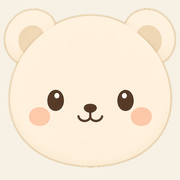
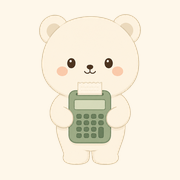
검색에 나오는 작은 아이콘을 얼굴 사진 대신 세나 전신으로 바꾼다.

diff --git a/app/layout.tsx b/app/layout.tsx
@@ -4,7 +4,7 @@ import { Providers } from "@/components/providers"
 import { AdSenseScript } from "@/components/adsense-script"
 import { SiteFooter } from "@/components/site-footer"
 import { SiteHeader } from "@/components/site-header"
-import { MASCOT, MASCOT_FAVICON, MASCOT_MARK, MASCOT_SHARE } from "@/lib/brand"
+import { MASCOT, MASCOT_FAVICON, MASCOT_SHARE } from "@/lib/brand"
 import { ADSENSE_CLIENT } from "@/lib/adsense"
 import { INDEX_ROBOTS } from "@/lib/seo"
 import { SITE_BRAND_NAME, SITE_SEARCH_NAME, SITE_URL } from "@/lib/site"
@@ -34,17 +34,14 @@ export const metadata: Metadata = {
   manifest: "/site.webmanifest",
   icons: {
     icon: [
-      { url: `${MASCOT_FAVICON.png48}?v=sena`, type: "image/png", sizes: "48x48" },
-      { url: `${MASCOT_FAVICON.png96}?v=sena`, type: "image/png", sizes: "96x96" },
-      { url: `${MASCOT_FAVICON.png192}?v=sena`, type: "image/png", sizes: "192x192" },
-      { url: `${MASCOT_FAVICON.ico}?v=sena`, sizes: "48x48" },
-      { url: MASCOT_MARK.src, type: "image/png", sizes: "512x512" },
+      { url: `${MASCOT_FAVICON.png48}?v=sena2`, type: "image/png", sizes: "48x48" },
+      { url: `${MASCOT_FAVICON.png96}?v=sena2`, type: "image/png", sizes: "96x96" },
+      { url: `${MASCOT_FAVICON.png192}?v=sena2`, type: "image/png", sizes: "192x192" },
+      { url: `${MASCOT_FAVICON.png512}?v=sena2`, type: "image/png", sizes: "512x512" },
+      { url: `${MASCOT_FAVICON.ico}?v=sena2`, sizes: "48x48" },
     ],
-    shortcut: [{ url: `${MASCOT_FAVICON.png48}?v=sena`, type: "image/png" }],
-    apple: [
-      { url: "/apple-touch-icon.png?v=sena", sizes: "180x180" },
-      { url: MASCOT_MARK.src, sizes: "180x180" },
-    ],
+    shortcut: [{ url: `${MASCOT_FAVICON.ico}?v=sena2` }],
+    apple: [{ url: "/apple-touch-icon.png?v=sena2", sizes: "180x180" }],
   },
   openGraph: {
     type: "website",

diff --git a/lib/brand.test.ts b/lib/brand.test.ts
@@ -53,18 +53,21 @@ test("세나 그림 파일이 공개 폴더에 있다", () => {
   assert.equal(existsSync(join(root, "icon-192.png")), true)
 })
 
-test("구글 검색용 파비콘이 사이트 세나 얼굴이고 48픽셀 배수다", () => {
+test("검색 작은 아이콘은 세나 전신이고 48픽셀 배수다", () => {
   const root = join(process.cwd(), "public")
   assert.equal(MASCOT_FAVICON.png48, "/kindsem-sena-face-fav-48.png")
   assert.equal(MASCOT_FAVICON.png96, "/kindsem-sena-face-fav-96.png")
   assert.equal(MASCOT_FAVICON.png192, "/kindsem-sena-face-fav-192.png")
   assert.equal(MASCOT_FAVICON.ico, "/favicon.ico")
+  assert.equal(MASCOT_FAVICON.png512, "/kindsem-sena-favicon-512.png")
   assert.equal(MASCOT_MARK.src, "/kindsem-sena-face-live.png")
   assert.deepEqual(pngSize(join(root, "kindsem-sena-share-live.png")), { width: 1200, height: 1200 })
   assert.deepEqual(pngSize(join(root, "kindsem-sena-face-live.png")), { width: 512, height: 512 })
   assert.deepEqual(pngSize(join(root, "kindsem-sena-face-fav-48.png")), { width: 48, height: 48 })
   assert.deepEqual(pngSize(join(root, "kindsem-sena-face-fav-96.png")), { width: 96, height: 96 })
   assert.deepEqual(pngSize(join(root, "kindsem-sena-face-fav-192.png")), { width: 192, height: 192 })
+  assert.deepEqual(pngSize(join(root, "kindsem-sena-favicon-512.png")), { width: 512, height: 512 })
+  assert.equal(existsSync(join(root, "kindsem-sena-favicon-512.png")), true)
   assert.deepEqual(pngSize(join(root, "apple-touch-icon.png")), { width: 180, height: 180 })
   assert.ok(icoSizes(join(root, "favicon.ico")).includes("48x48"))
 })

diff --git a/lib/seo.ts b/lib/seo.ts
@@ -2,7 +2,7 @@ import type { Metadata } from "next"
 import type { CalcItem } from "./catalog.ts"
 import { CALCULATORS } from "./catalog.ts"
 import { CALC_GUIDES } from "./calc-guides.ts"
-import { MASCOT, MASCOT_MARK, MASCOT_SHARE } from "./brand.ts"
+import { MASCOT, MASCOT_FAVICON, MASCOT_SHARE } from "./brand.ts"
 import {
   CONTACT_EMAIL,
   SITE_ALTERNATE_NAMES,
@@ -303,7 +303,7 @@ export function calcJsonLd(item: CalcItem) {
         name: SITE_BRAND_NAME,
         alternateName: [...SITE_ALTERNATE_NAMES],
         url: SITE_URL,
-        logo: `${SITE_URL}${MASCOT_MARK.src}`,
+        logo: `${SITE_URL}${MASCOT_FAVICON.png512}`,
         image: `${SITE_URL}${MASCOT_SHARE.src}`,
       },
     },
@@ -358,7 +358,7 @@ export function homeJsonLd() {
         name: SITE_BRAND_NAME,
         alternateName: [...SITE_ALTERNATE_NAMES],
         url: SITE_URL,
-        logo: `${SITE_URL}${MASCOT_MARK.src}`,
+        logo: `${SITE_URL}${MASCOT_FAVICON.png512}`,
         image: `${SITE_URL}${MASCOT_SHARE.src}`,
       },
       image: `${SITE_URL}${MASCOT_SHARE.src}`,

diff --git a/lib/brand.ts b/lib/brand.ts
@@ -13,7 +13,7 @@ export const MASCOT_SHARE = {
   height: 1200,
 } as const
 
-/** 구글 파비콘·조직 로고. 사이트와 같은 세나 얼굴. */
+/** 사이트 안 동그란 자리의 세나 얼굴. 검색 작은 아이콘은 전신이다. */
 export const MASCOT_MARK = {
   src: "/kindsem-sena-face-live.png",
   width: 512,
@@ -24,5 +24,6 @@ export const MASCOT_FAVICON = {
   png48: "/kindsem-sena-face-fav-48.png",
   png96: "/kindsem-sena-face-fav-96.png",
   png192: "/kindsem-sena-face-fav-192.png",
+  png512: "/kindsem-sena-favicon-512.png",
   ico: "/favicon.ico",
 } as const
